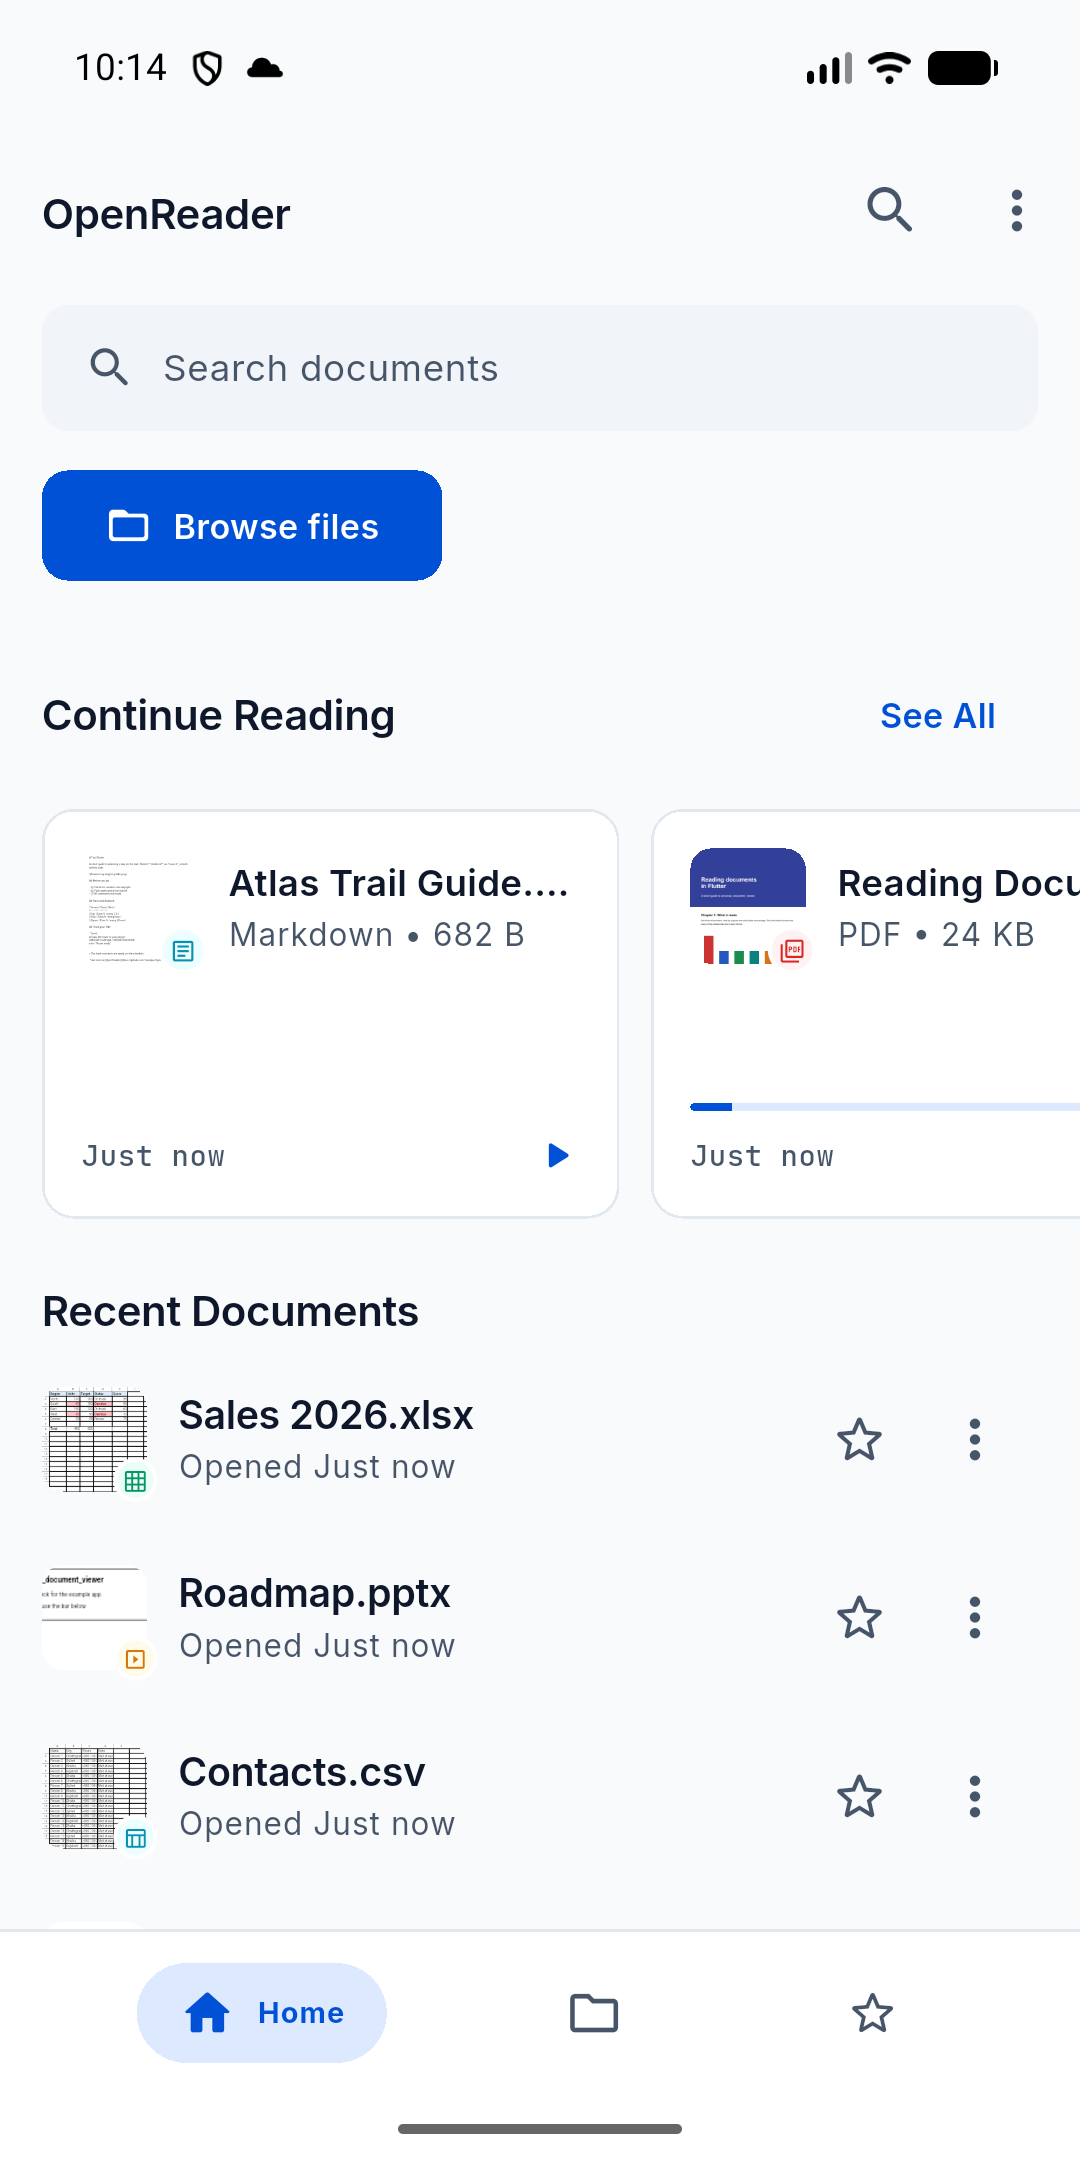
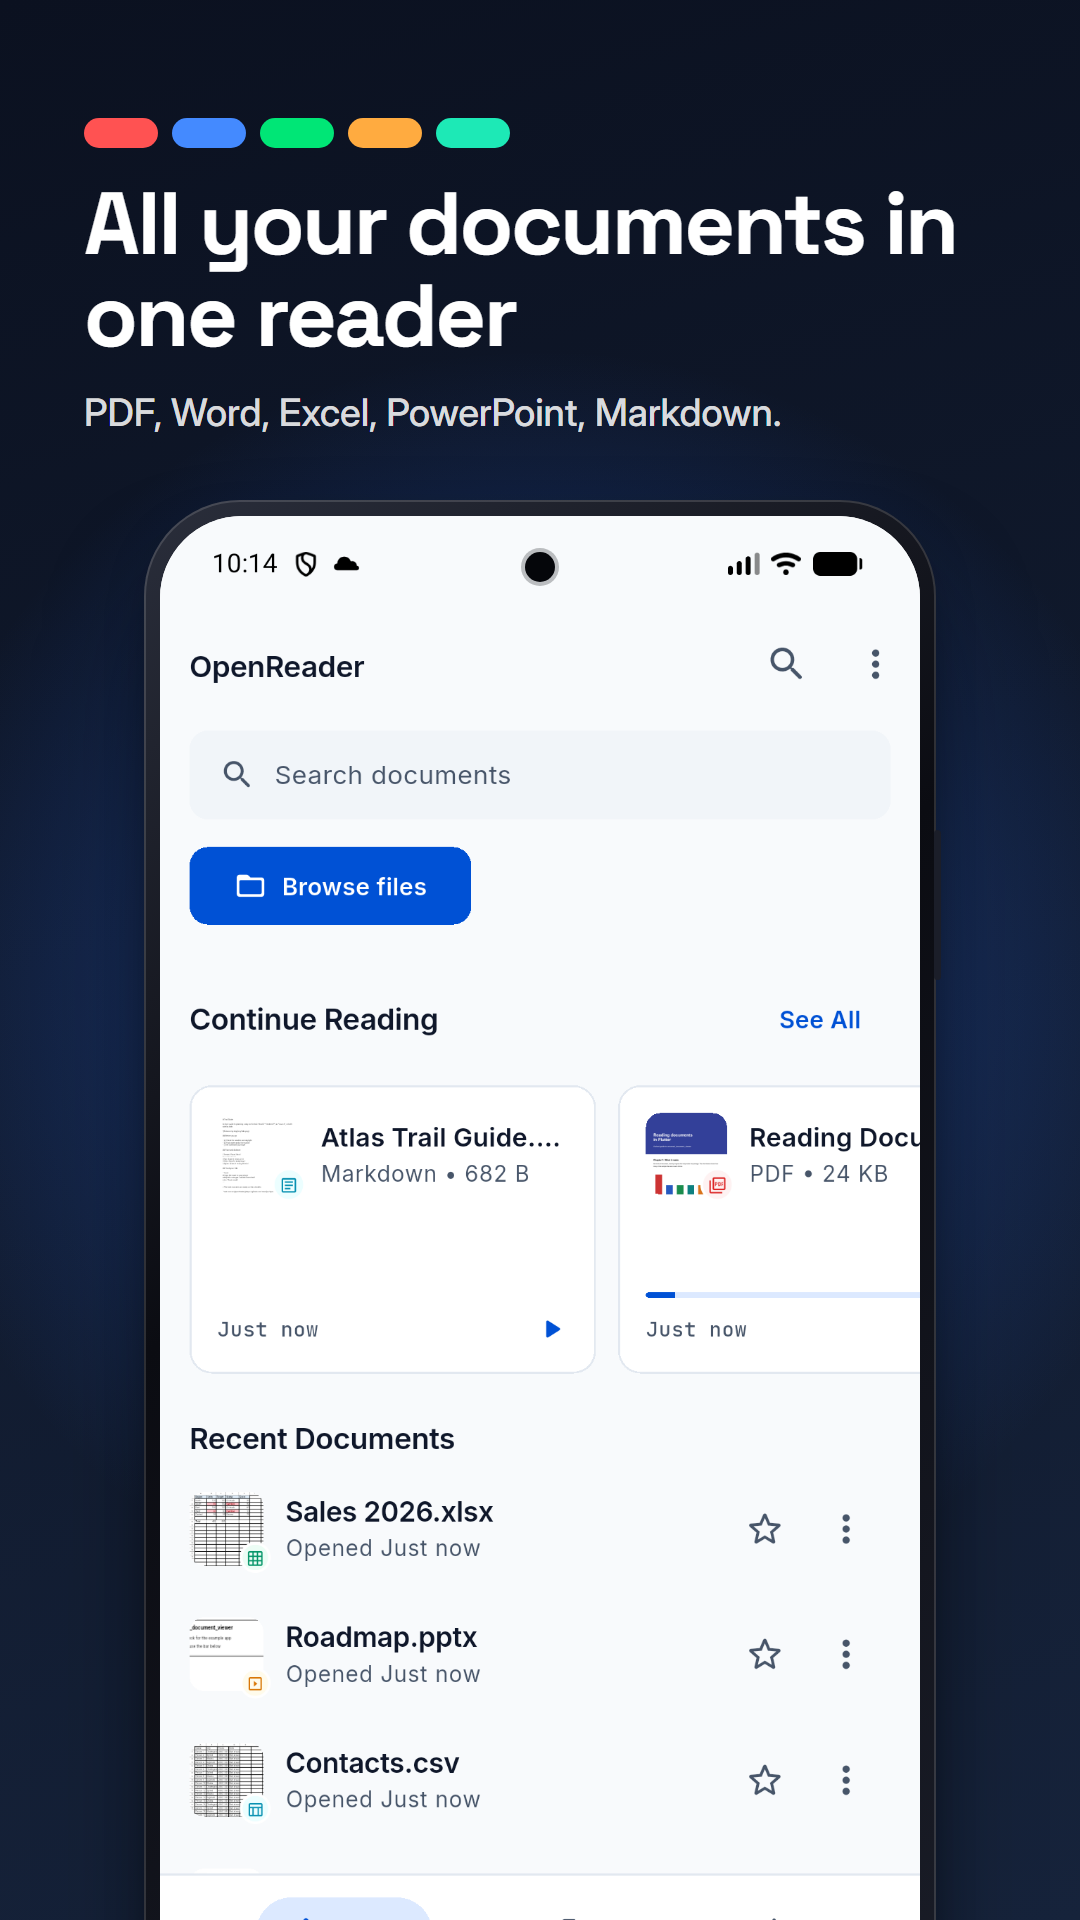
Play listing: keyword-optimised title and descriptions, captioned screenshots
- Title "OpenReader: PDF, DOCX & XLSX" and a short description built around
  what people search for (document viewer, PDF/Word/Excel/PowerPoint/Markdown
  reader) instead of the app name alone.
- Full description rewritten by format and feature; no longer claims legacy
  .doc/.xls support, and says so.
- Eight captioned phone-mockup screenshots (1080x1920), generated from
  tool/play_screenshots.html with the raw captures in tool/store_screens.
- Release notes for 1.0.20 (versionCode 20).

diff --git a/tool/play_screenshots.html b/tool/play_screenshots.html
@@ -1,0 +1,92 @@
+<!doctype html>
+<!--
+  Source of fastlane/metadata/android/en-US/images/phoneScreenshots/*.png (1080 x 1920).
+  Each page is #1..#8: a headline, one line of support, and the app screenshot
+  from tool/store_screens in a phone frame that bleeds off the bottom edge.
+
+  Store-listing choices:
+  - the first three shots carry the pitch (all formats, PDF, Word), since only
+    those show before the listing is scrolled;
+  - one short benefit-led headline per shot, naming the format people search for;
+  - the background colour is that format's tab colour from the app icon, so the
+    row of screenshots reads as the same five tabs;
+  - captions only promise what the screenshot beneath them shows.
+
+  Render with tool/render_play_screenshots.ps1.
+-->
+<html lang="en">
+<head>
+<meta charset="utf-8" />
+<style>
+  @font-face { font-family: "Space Grotesk"; src: url("../assets/fonts/SpaceGrotesk.ttf"); font-weight: 300 700; }
+  @font-face { font-family: Inter; src: url("../assets/fonts/Inter.ttf"); font-weight: 100 900; }
+  * { box-sizing: border-box; margin: 0; }
+  html, body { width: 1080px; height: 1920px; overflow: hidden; }
+  body { font-family: Inter, system-ui, sans-serif; color: #fff; position: relative; background: var(--c1); }
+
+  .bg { position: absolute; inset: 0; background: linear-gradient(165deg, var(--c1) 0%, var(--c2) 100%); }
+  .glow { position: absolute; left: 50%; top: 1000px; width: 1300px; height: 1300px; margin: -650px 0 0 -650px; border-radius: 50%;
+    background: radial-gradient(closest-side, var(--glow), transparent); opacity: .5; }
+
+  .copy { position: absolute; left: 84px; top: 118px; width: 912px; display: flex; flex-direction: column; }
+  h1 { font-family: "Space Grotesk", Inter, sans-serif; font-weight: 700; font-size: 88px; line-height: 1.04; letter-spacing: -2.5px; }
+  p.sub { margin-top: 26px; font-size: 38px; line-height: 1.32; font-weight: 500; max-width: 800px; color: rgba(255, 255, 255, .86); }
+
+  /* the five format tabs from the icon, on the overview shot only */
+  .tabs { display: none; order: -1; margin-bottom: 30px; gap: 14px; }
+  .tabs i { display: block; width: 74px; height: 30px; border-radius: 15px; }
+  body.overview .tabs { display: flex; }
+
+  /* phone */
+  .phone { position: absolute; left: 144px; top: 500px; width: 792px; height: 1580px; padding: 16px; border-radius: 96px;
+    background: linear-gradient(145deg, #2a2e3b, #0b0c12 40%, #1a1d28);
+    box-shadow: 0 70px 120px -30px rgba(0, 0, 0, .6), 0 20px 50px -20px rgba(0, 0, 0, .5), inset 0 0 0 2px rgba(255, 255, 255, .14); }
+  .screen { position: relative; width: 760px; height: 1520px; border-radius: 82px; overflow: hidden; background: #fff; }
+  .screen img { display: block; width: 760px; height: 1520px; }
+  .screen::after { content: ""; position: absolute; left: 50%; top: 36px; width: 30px; height: 30px; margin-left: -15px; border-radius: 50%;
+    background: #05060a; box-shadow: 0 0 0 4px rgba(5, 6, 10, .25); }
+  .phone::before { content: ""; position: absolute; right: -5px; top: 330px; width: 7px; height: 150px; border-radius: 4px; background: #1b1e29; }
+</style>
+</head>
+<body>
+  <div class="bg"></div>
+  <div class="glow"></div>
+  <section class="copy">
+    <h1 id="head"></h1>
+    <p class="sub" id="sub"></p>
+    <div class="tabs" aria-hidden="true">
+      <i style="background:#FF5252"></i><i style="background:#448AFF"></i><i style="background:#00E676"></i><i style="background:#FFAB40"></i><i style="background:#1DE9B6"></i>
+    </div>
+  </section>
+  <div class="phone"><div class="screen"><img id="shot" alt="" /></div></div>
+
+<script>
+  var SHOTS = [
+    { img: '01_home', head: 'All your documents in one reader', sub: 'PDF, Word, Excel, PowerPoint, Markdown.',
+      c1: '#0B1120', c2: '#16233B', glow: '#2B6CF0', overview: true },
+    { img: '02_pdf', head: 'Read PDFs smoothly', sub: 'Continuous scroll, page thumbnails and zoom.',
+      c1: '#C62828', c2: '#7F1717', glow: '#FF6B6B' },
+    { img: '03_word', head: 'Open Word documents', sub: 'Headings, lists, tables and images stay intact.',
+      c1: '#1565C0', c2: '#0B3A80', glow: '#5AA2FF' },
+    { img: '04_excel', head: 'View Excel spreadsheets', sub: 'Switch between sheets and tap any cell.',
+      c1: '#2E7D32', c2: '#184A1C', glow: '#5BE08A' },
+    { img: '05_markdown', head: 'Markdown, nicely rendered', sub: 'Tables, task lists and code you can copy.',
+      c1: '#00838F', c2: '#004A55', glow: '#33E0C7' },
+    { img: '06_split', head: 'Preview, code or both', sub: 'One button switches the view.',
+      c1: '#00695C', c2: '#003B34', glow: '#2DD4BF' },
+    { img: '07_files', head: 'Find files in any folder', sub: 'Browse by format or search everything.',
+      c1: '#0A4FC4', c2: '#08265F', glow: '#6AA8FF' },
+    { img: '08_dark', head: 'Night mode for late reading', sub: 'A dark theme for every document.',
+      c1: '#05080F', c2: '#0C1426', glow: '#2A6CF0' }
+  ];
+  var n = Math.max(1, Math.min(SHOTS.length, parseInt(location.hash.slice(1), 10) || 1));
+  var s = SHOTS[n - 1];
+  var root = document.documentElement.style;
+  root.setProperty('--c1', s.c1); root.setProperty('--c2', s.c2); root.setProperty('--glow', s.glow);
+  document.body.className = s.overview ? 'overview' : '';
+  document.getElementById('head').textContent = s.head;
+  document.getElementById('sub').textContent = s.sub;
+  document.getElementById('shot').src = 'store_screens/' + s.img + '.png';
+</script>
+</body>
+</html>
